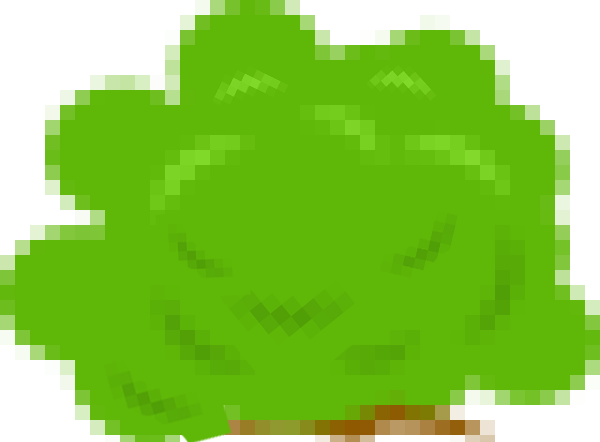
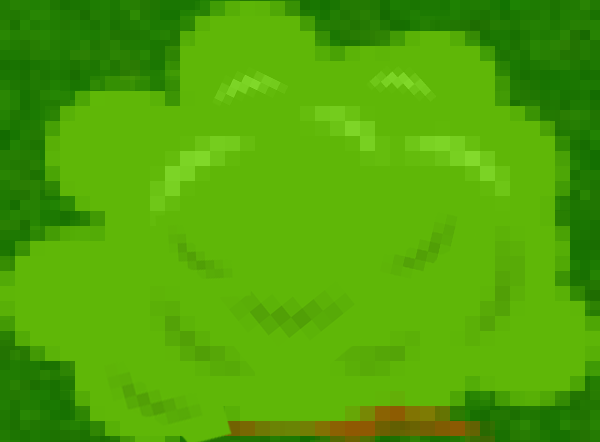
init commit

diff --git a/src/monster.js b/src/monster.js
@@ -1,0 +1,34 @@
+class Monster{
+  constructor(x,y){
+    this.x = x
+    this.y = y
+    this.coordinates = [this.x,this.y]
+    this.createMonster()
+    this.placeMonster()
+    this.moveMonster()
+  }
+
+  formatCoordinates(coordinatesArray){
+    return `${coordinatesArray[0]}-${coordinatesArray[1]}`
+  }
+
+
+  createMonster(){
+    let monster = document.createElement('div')
+    monster.style.borderRadius = "50%"
+    monster.style.marginLeft = "30%"
+    monster.style.marginRight = "30%"
+    monster.style.backgroundColor = "red"
+    monster.innerText = 'es'
+    monster.id = "monster"
+    return monster
+  }
+
+  removeMonster(){
+    let monster = document.getElementById('hero')
+    if (monster){
+      monster.remove()
+    }
+  }
+
+}

diff --git a/src/board.js b/src/board.js
@@ -29,6 +29,7 @@ class Board {
 
   createCanvas(width, height){
     var canvas = document.createElement('table')
+    canvas.style.backgroundImage = `url("img/elements/grass.png")`
     canvas.className = "canvas"
     document.body.appendChild(canvas)
 
@@ -53,6 +54,7 @@ class Board {
           cell.appendChild(img)
         }
         else {
+          cell.style.backgroundImage = `url("img/elements/grass.png")`
           cell.dataset.item = "open"
         }
 

diff --git a/src/character.js b/src/character.js
@@ -47,11 +47,7 @@ class Character{
     this.moveLeft()
   }
 
-  // checkBarriers(barrierList){
-  //   for(let barrier of barrierList){
-  //     if(barrier[0] === this.x )
-  //   }
-  // }
+
 
   moveDown(){
     document.addEventListener('keydown', (ev) => {
